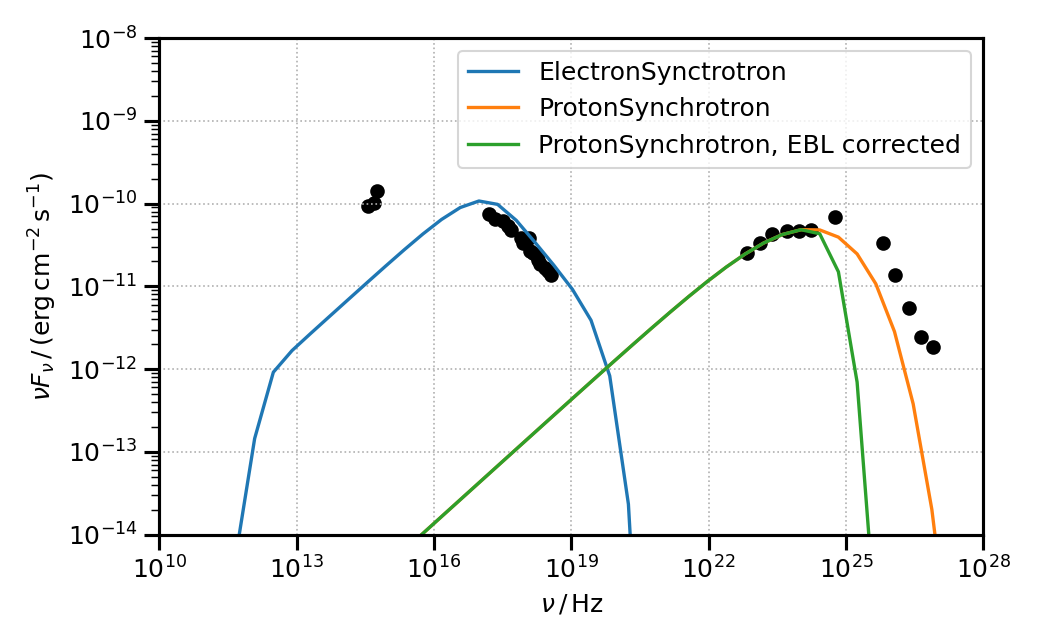
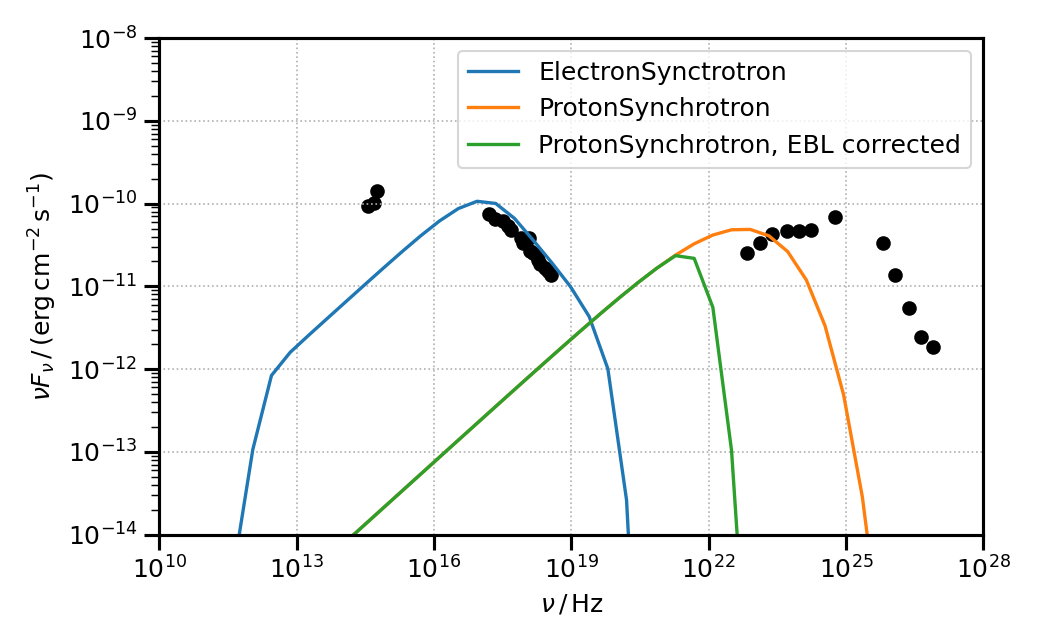
Minor changes

diff --git a/agnpy/tesi/Comparison_Cerruti2012.py b/agnpy/tesi/Comparison_Cerruti2012.py
@@ -10,10 +10,10 @@ from agnpy.utils.plot import plot_sed
 import matplotlib.pyplot as plt
 from agnpy.utils.plot import load_mpl_rc
 #from astropy.constants import e, h, c, m_e, m_p, sigma_T
-from astropy.constants import m_p, m_e
+from astropy.constants import m_p#, m_e
 from astropy.coordinates import Distance
 from agnpy.absorption import EBL
-import matplotlib.style
+#import matplotlib.style
 
 load_mpl_rc()  # adopt agnpy plotting style
 
@@ -45,7 +45,6 @@ vol = (4. / 3) * np.pi * R ** 3
 #
 
 
-
 # So I made a bit 'cleaner' the code.
 # Also, I deleted my proton_synch program and I kept only yours, renaming it
 # from proton_synchrotron2 to just proton_synchrotron.
@@ -73,7 +72,7 @@ n_p = ExpCutoffPowerLaw(k= 12e3 * u.Unit('cm-3'),
         p = 2.0 ,
         gamma_c= 1e9,
         gamma_min= 1,
-        gamma_max=1e12,
+        gamma_max=1e20,
         mass=m_p
 )
 
@@ -96,21 +95,21 @@ blob = Blob(R_b=R,
 )
 
 print(blob)
-print(n_p)
+print(blob.delta_D)
 
 synch = Synchrotron(blob, ssa=True)
 psynch = ProtonSynchrotron(blob)
 
 # compute the SED over an array of frequencies
-nu = np.logspace(8, 28) * u.Hz
-nu_obs = nu * doppler_s**2
+nu = np.logspace(10, 30) * u.Hz
+nu_obs = nu * blob.delta_D
 
 sed = synch.sed_flux(nu)
 psed = psynch.sed_flux(nu)
 
 
 ebl = EBL("saldana-lopez")
-absorption = ebl.absorption(redshift, nu)
+absorption = ebl.absorption(redshift, nu_obs)
 
 
 sed_abs  = sed  * absorption
@@ -125,6 +124,7 @@ plot_sed(nu_obs, psed_abs, label = 'ProtonSynchrotron, EBL corrected')
 plt.ylim(1e-14, 1e-8)
 plt.xlim(1e10, 1e28) # For frequencies
 plt.savefig('Comparison.png')
+plt.show()
 
 
 plt.figure(figsize = (6.92, 4.29))
@@ -133,4 +133,4 @@ blob.plot_n_p(label = 'Proton distribution')
 #n_e.plot()
 plt.ylim(1e-44, 1e5)
 plt.legend()
-plt.show()
+plt.savefig('Particle_distr.png')
